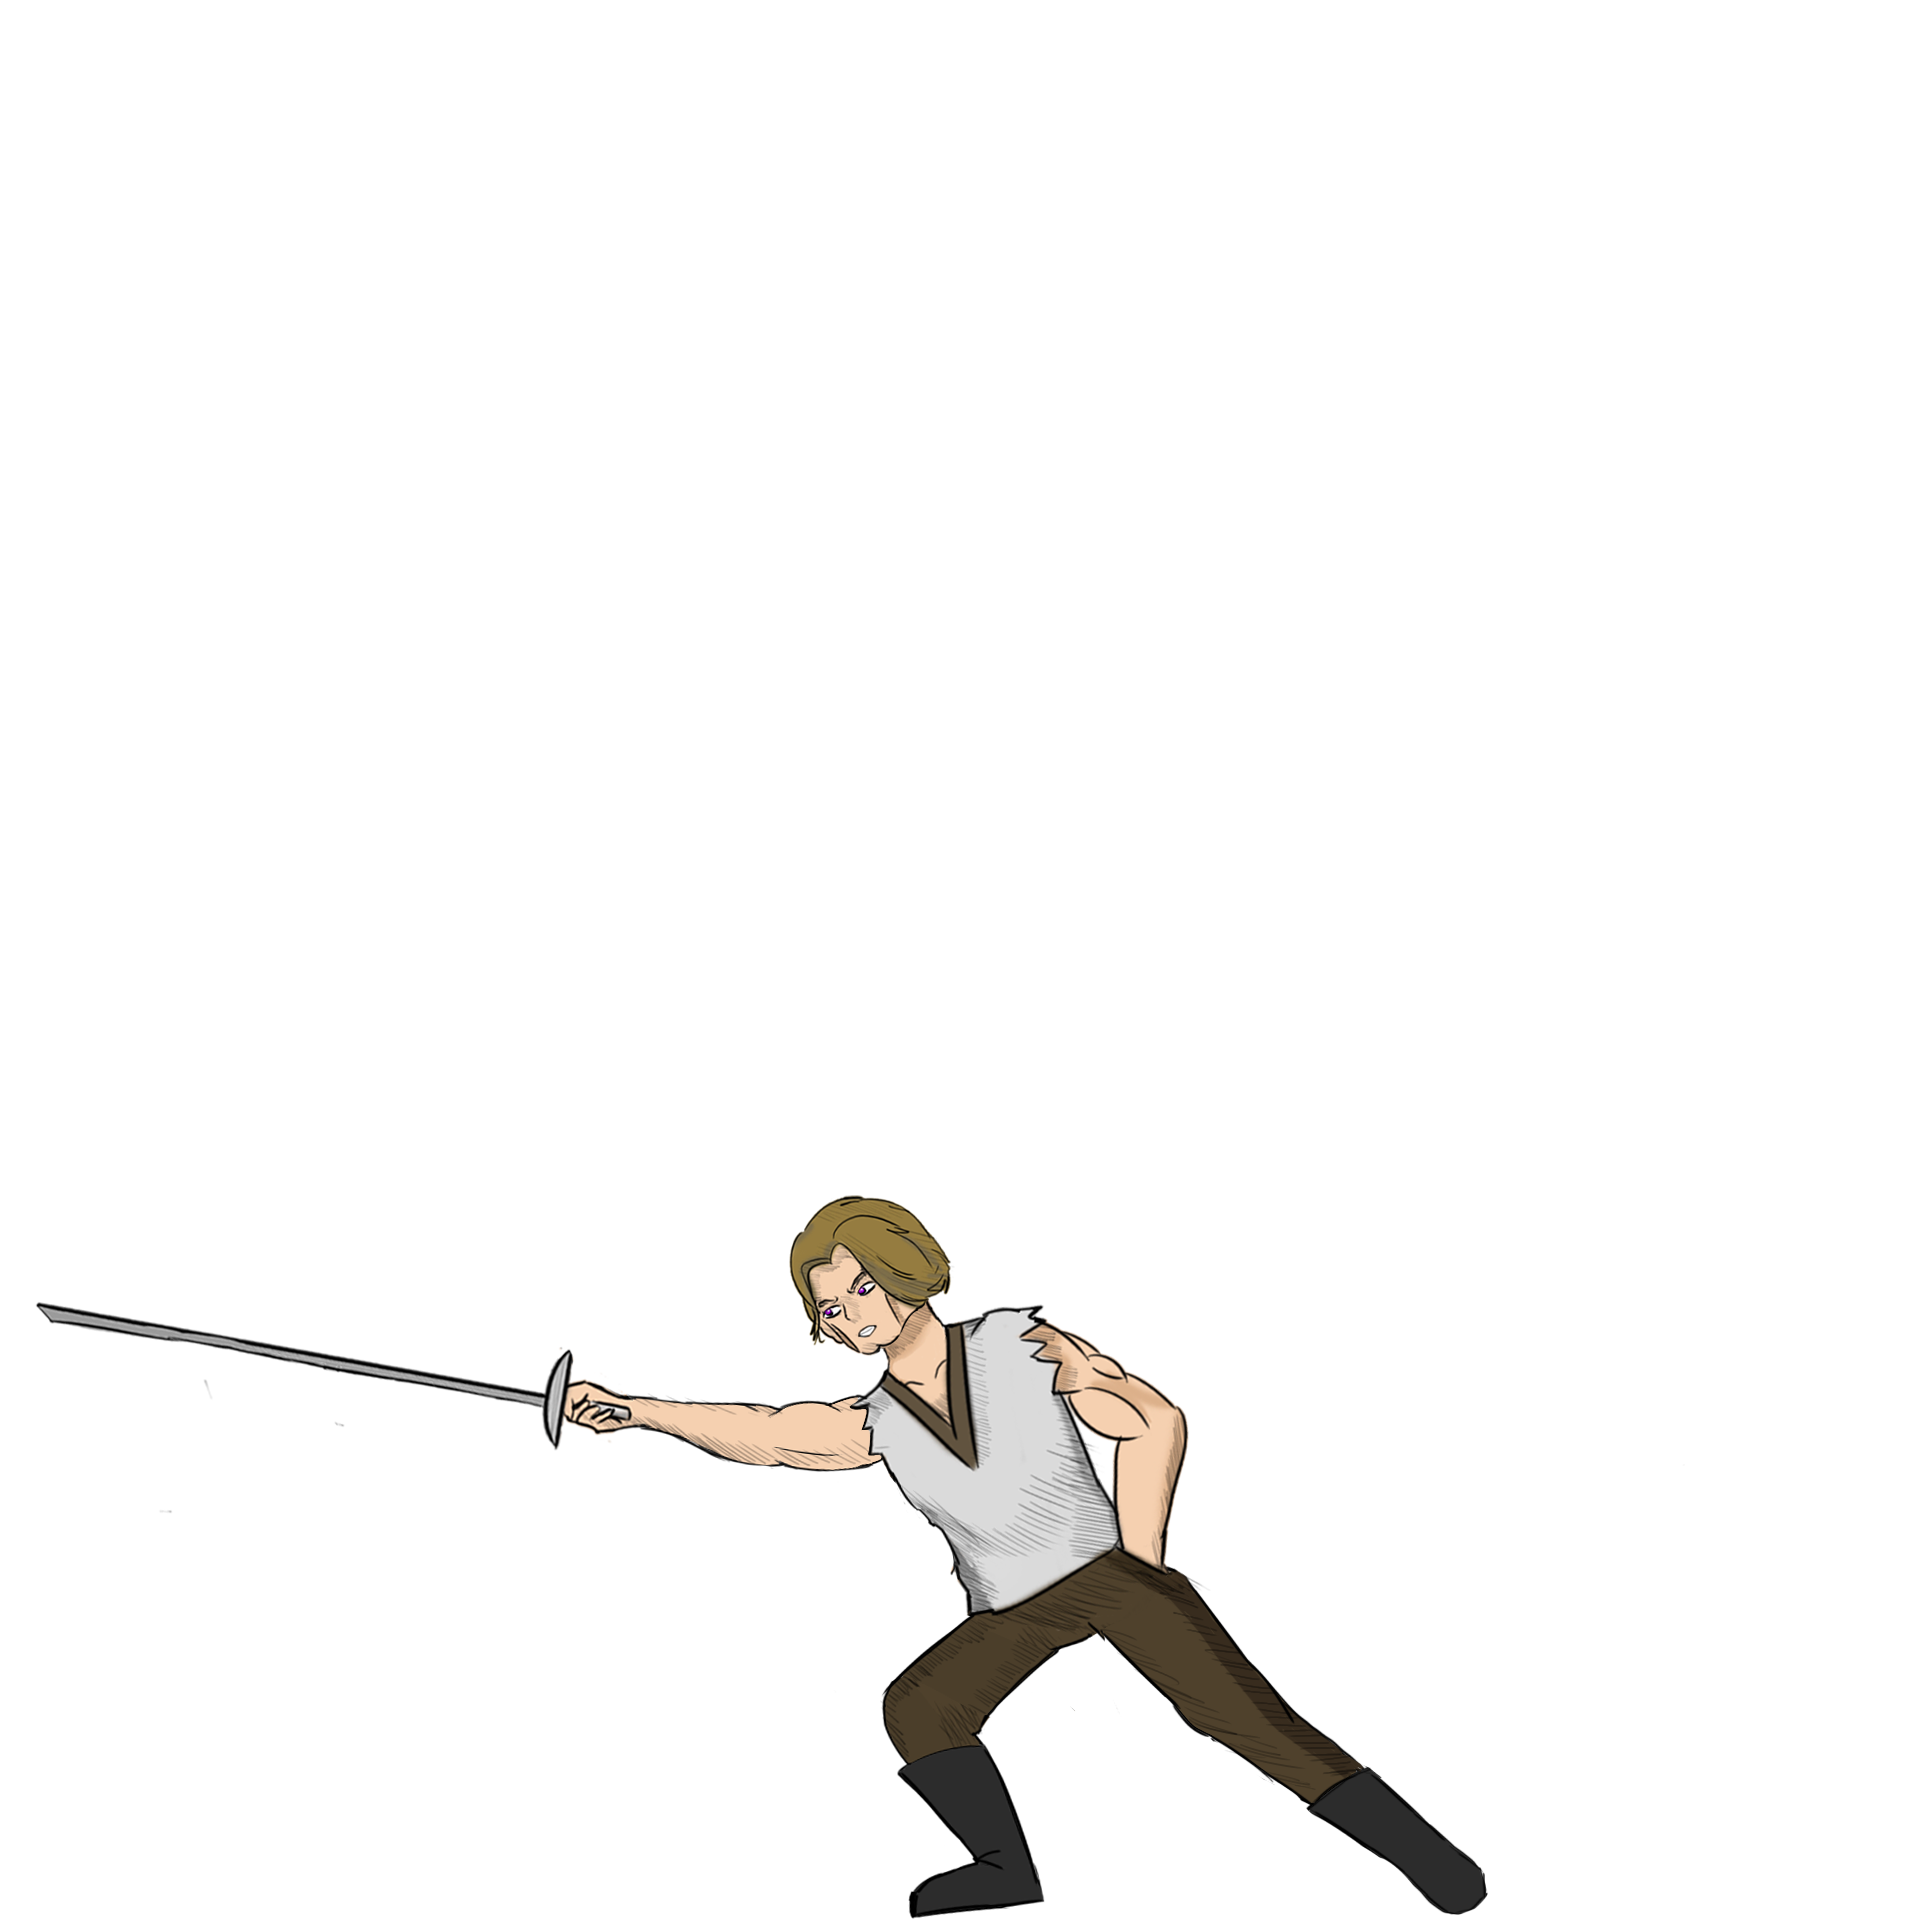
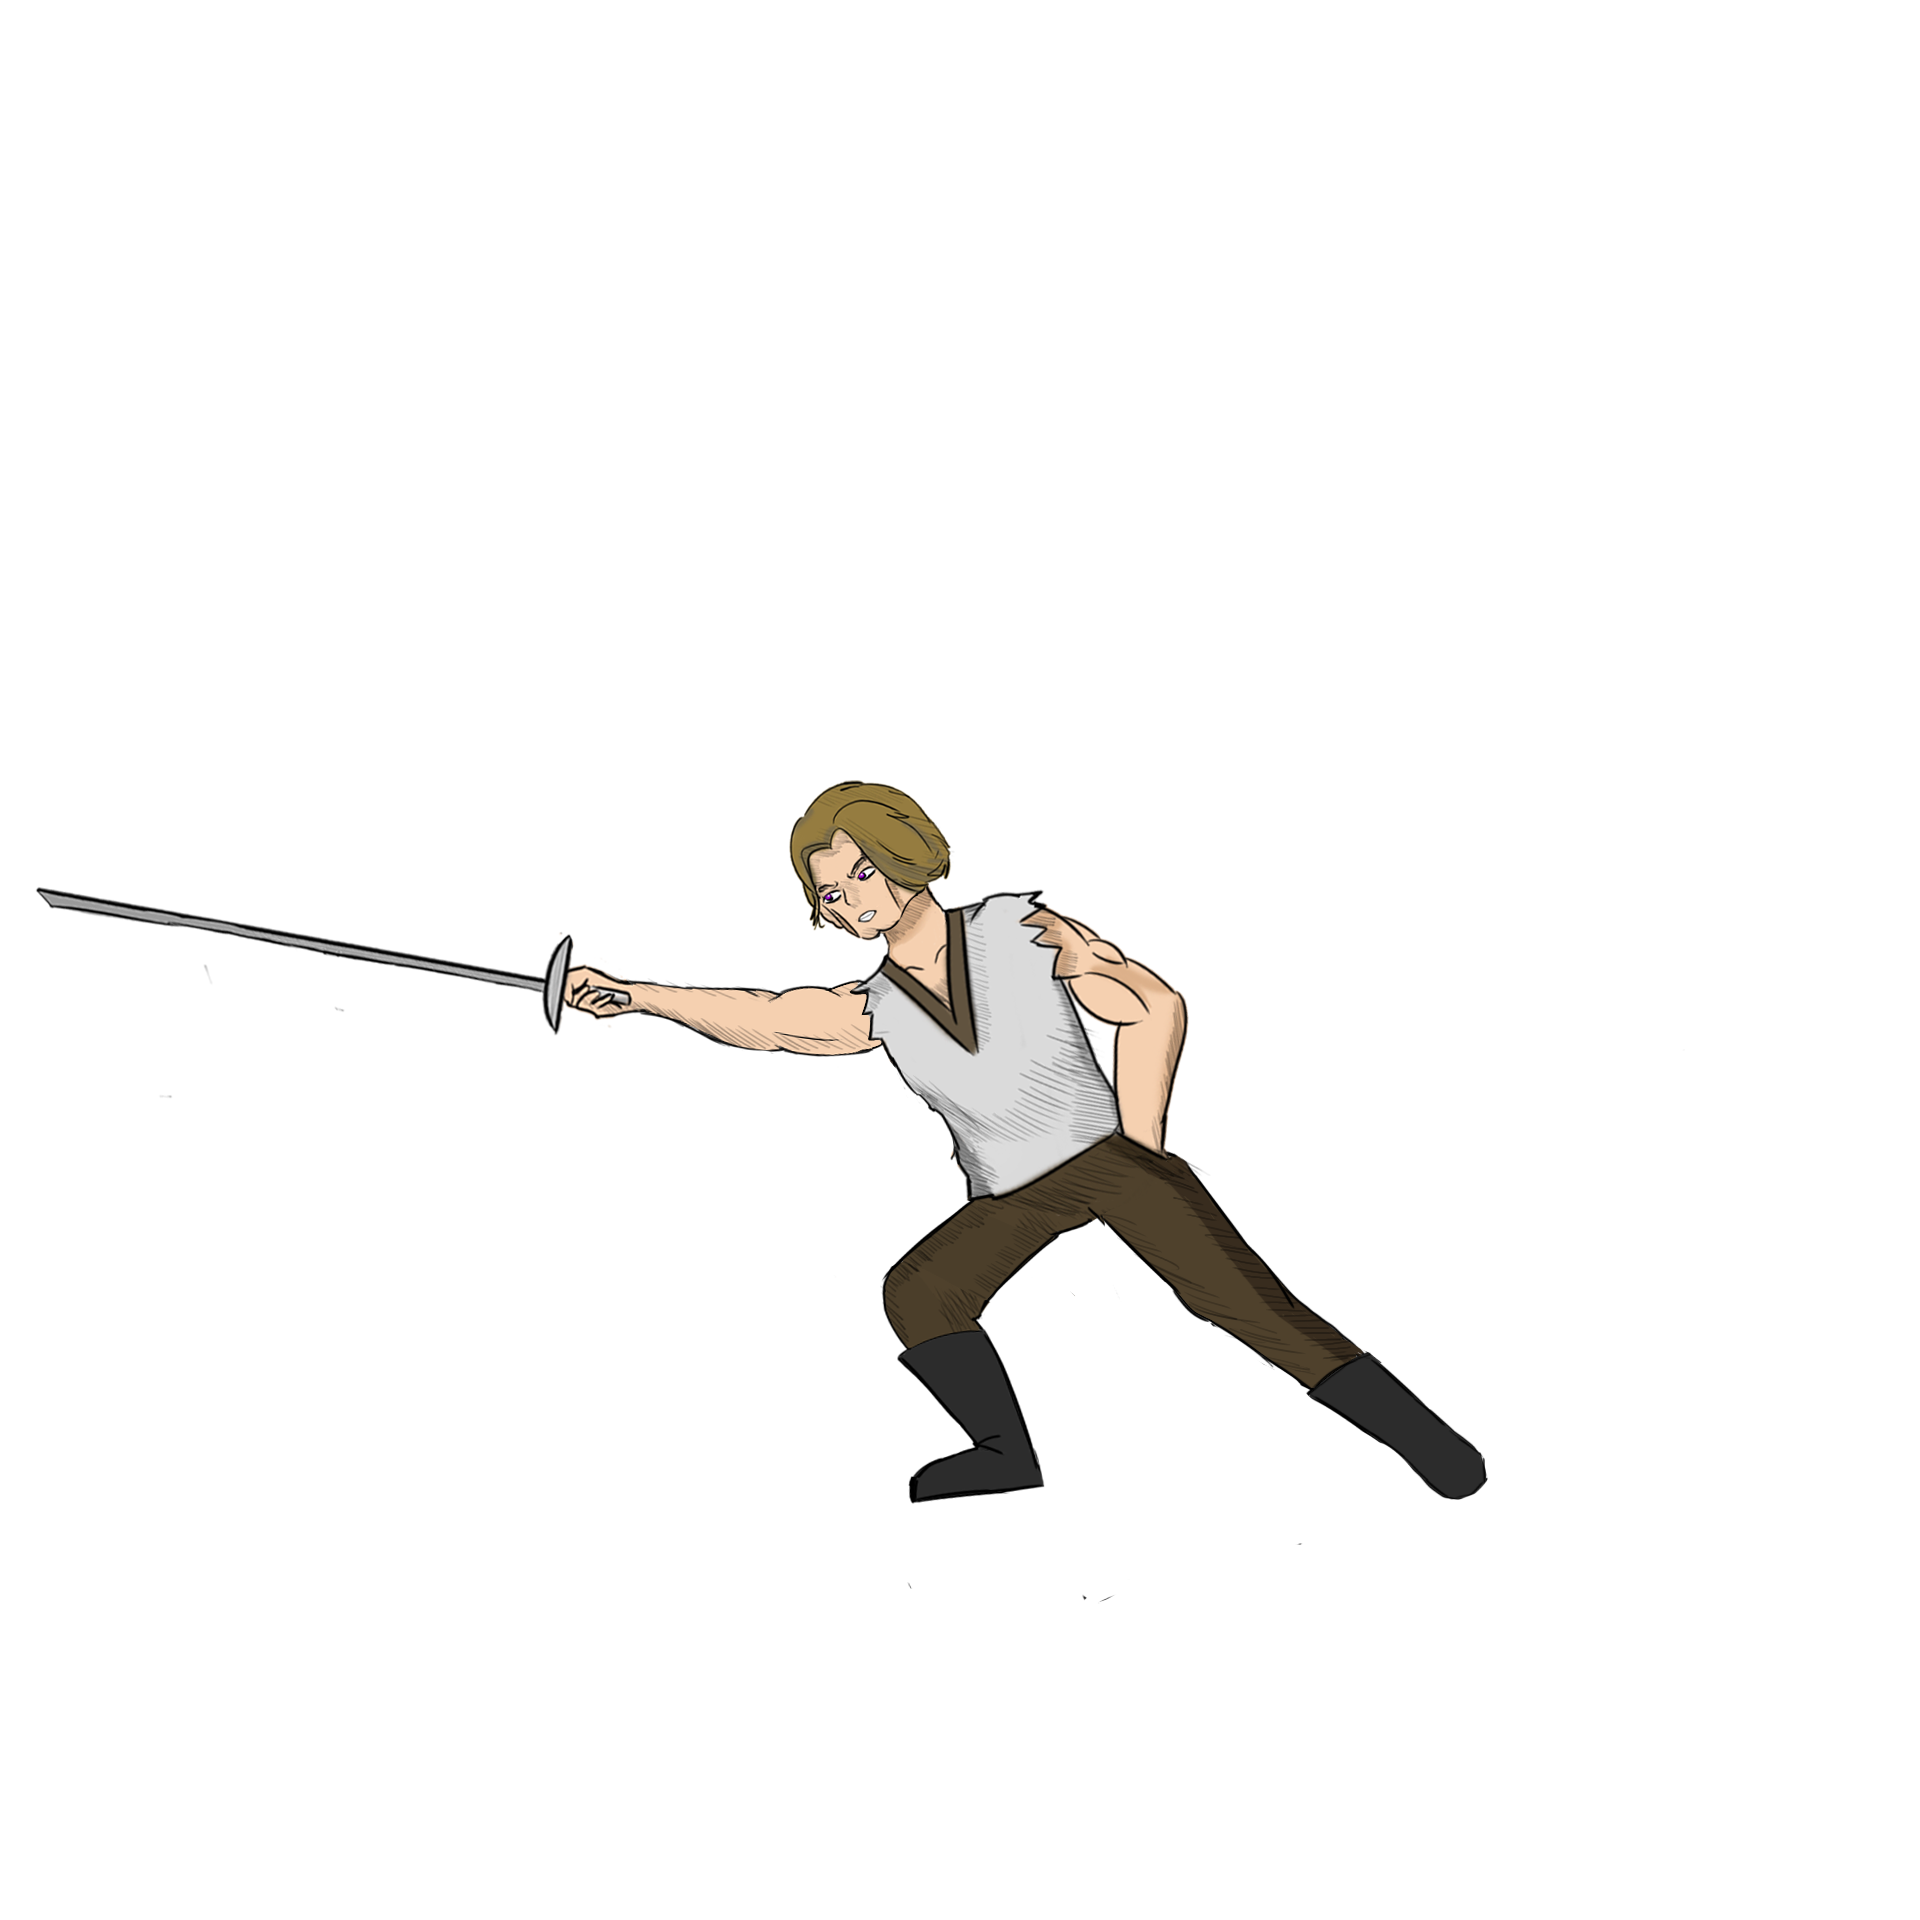
Lv1 enemy getParried & death animation

Changed region(s): [[0.2188, 0.4062, 0.7812, 1.0], [0.0312, 0.6562, 0.2188, 0.7188], [0.0312, 0.4688, 0.2188, 0.5]]

diff --git a/Assets/Scripts/Enemy Scripts/EnemyController.cs b/Assets/Scripts/Enemy Scripts/EnemyController.cs
@@ -611,6 +611,7 @@ public class EnemyController : MonoBehaviour
     private IEnumerator Parried()
     {
         //Debug.Log("parried");
+        animator.Play("Parried");
         yield return new WaitForSeconds(getParriedStunDuration);
         if (state == EnemyState.parried)
         {
@@ -731,6 +732,7 @@ public class EnemyController : MonoBehaviour
         if (enemyHealth <= 0f)
         {
             playerController.ResetToIdle();
+            animator.Play("Death");
             enemyHealth = 0f;
             state = EnemyState.dead;
             playerController.ResetToIdle();
